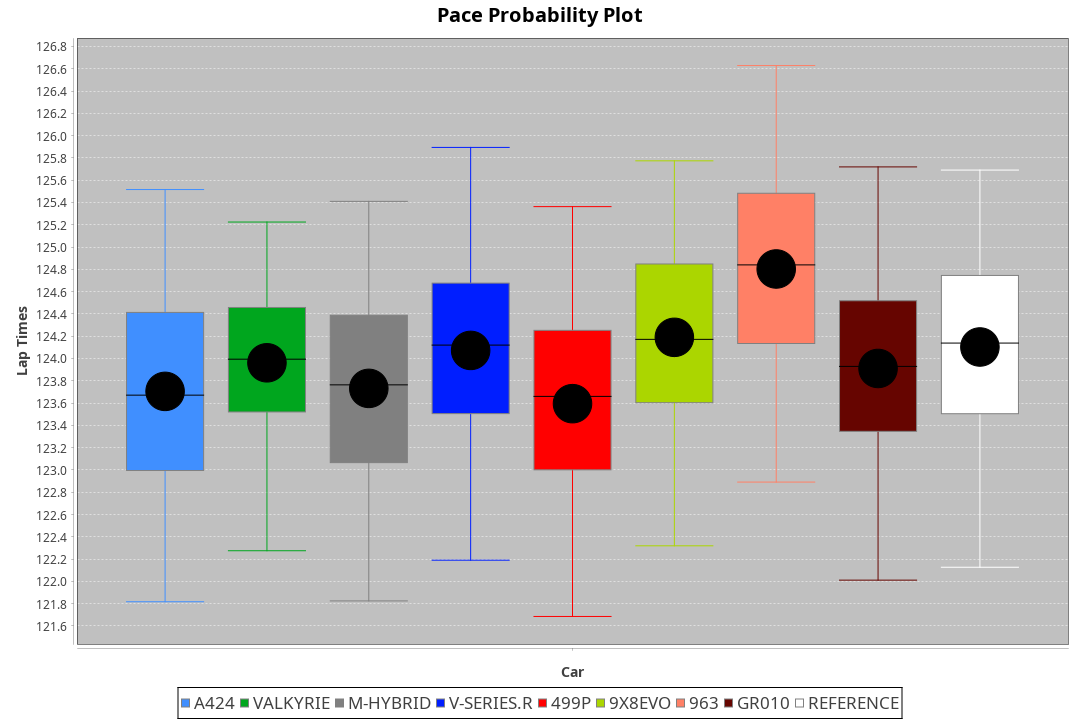
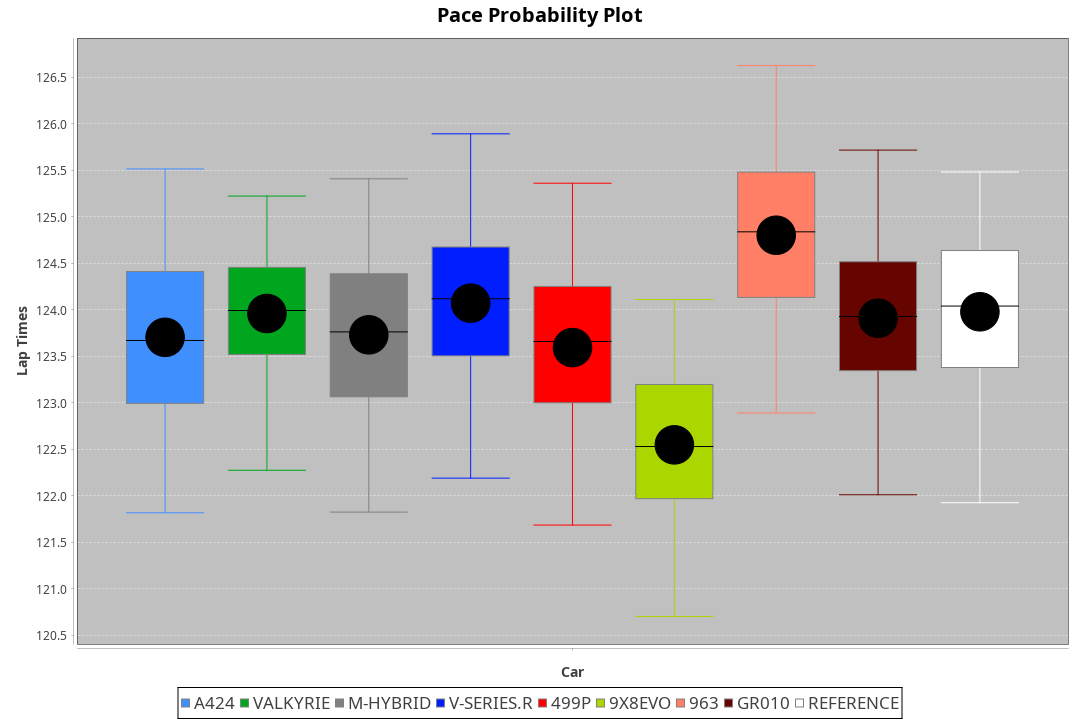
Updated spa with correct peugeot bop

diff --git a/BOP/WECTEC/SPA/PREDEFINED/OFFICIAL_BOP.md b/BOP/WECTEC/SPA/PREDEFINED/OFFICIAL_BOP.md
@@ -4,13 +4,13 @@
 | Aston Martin     | Valkyrie       | 1035kg | 520.0kw | -2.70%  | 906MJ   |    -    |
 | Cadillac         | V-Series.R     | 1042kg | 501.0kw | 3.80%   | 905MJ   |    -    |
 | Ferrari          | 499P           | 1057kg | 489.0kw | 3.70%   | 893MJ   | 190kph  |
-| Peugeot          | 9X8            | 1030kg | 520.0kw | -3.70%  | 902MJ   | 190kph  |
+| Peugeot          | 9X8Evo         | 1030kg | 520.0kw | -3.70%  | 909MJ   | 190kph  |
 | Porsche          | 963            | 1055kg | 494.0kw | 3.40%   | 901MJ   |    -    |
 | Toyota           | GR010          | 1069kg | 480.0kw | 8.30%   | 902MJ   | 190kph  |
-| Peugeot          | 9X8Evo         | 1065kg | 508.0kw |    -    | 910MJ   | 190kph  |
 | BMW              | M-Hybrid       | 1038kg | 510.0kw |    -    | 907MJ   |    -    |
 | Lamborghini      | SC63           | 1035kg | 514.0kw |    -    | 908MJ   |    -    |
 | Isotta Fraschini | Tipo6C         | 1059kg | 520.0kw |    -    | 917MJ   | 190kph  |
+| Peugeot          | 9X8            | 1042kg | 516.0kw |    -    | 908MJ   | 150kph  |
 | Glickenhaus      | 007            | 1030kg | 520.0kw |    -    | 913MJ   |    -    |
 | Vanwall          | Vanderwell 680 | 1030kg | 512.0kw |    -    | 901MJ   |    -    |
 | Alpine           | A480           | 952kg  | 410.0kw |    -    | 797MJ   |    -    |
@@ -20,69 +20,69 @@
 ![STRAIGHTLINEPERFORMANCECHART](./IMG/OFFICIAL_sp.png)
 ![TYREPERFORMANCECHART](./IMG/OFFICIAL_tw.png)
 
-### BoP Accuracy: 69.35%; Overall BoP Grade: D1
+### BoP Accuracy: 65.97%; Overall BoP Grade: D1
 | Manufacturer     | Car            | Type  | RP      | QP      | Weight | Power¹  | Threshhold | PINC    | Power²   | E/Stint | AVG Vmax  | FDS     | RDLC | L/Stint | BOP-Grade | Model Accuracy | Model Points | Match%  | SimDiff |
 |:-|:-|:-|:-|:-|:-|:-|:-|:-|:-|:-|:-|:-|:-|:-|:-|:-|:-|:-|:-|
-| Alpine           | A424           | LMDH  | 2:03.67 | 2:01.26 | 1043kg | 520.0kw | 250.0kph   | -4.40%  | 497.10kw |  910MJ  | 294.66kph |    -    | 1.03 | 25      | -B2       | 96.10%         | 2390         | 80.25%  | #       |
-| Alpine           | A480           | LMP1  | 2:05.23 | 2:04.10 |  952kg | 410.0kw | 0.0kph     |    -    | 410.00kw |  797MJ  | 290.31kph |    -    | 0.98 | 23      | +D1       | 95.62%         | 1701         | 68.36%  | +0.48   |
-| Aston Martin     | Valkyrie       | LMHNH | 2:03.95 | 2:00.95 | 1035kg | 520.0kw | 250.0kph   | -2.70%  | 506.00kw |  906MJ  | 296.18kph |    -    | 1.04 | 25      | +C2       | 100.00%        | 466          | 73.33%  | #       |
-| BMW              | M-Hybrid       | LMDH  | 2:03.68 | 2:00.96 | 1038kg | 510.0kw | 210.0kph   |    -    | 510.00kw |  907MJ  | 298.25kph |    -    | 1.04 | 25      | -C1       | 100.00%        | 3339         | 76.59%  | #       |
-| Cadillac         | V-Series.R     | LMDH  | 2:04.04 | 2:01.48 | 1042kg | 501.0kw | 250.0kph   | 3.80%   | 520.00kw |  905MJ  | 300.57kph |    -    | 1.03 | 24      | ~A1       | 99.56%         | 5841         | 95.43%  | #       |
-| Ferrari          | 499P           | LMHHU | 2:03.54 | 2:00.77 | 1057kg | 489.0kw | 250.0kph   | 3.70%   | 507.10kw |  893MJ  | 297.13kph | 190kph  | 1.05 | 24      | -C2       | 99.57%         | 7417         | 72.65%  | #       |
-| Glickenhaus      | 007            | LMHNH | 2:04.13 | 2:02.74 | 1030kg | 520.0kw | 0.0kph     |    -    | 520.00kw |  913MJ  | 304.95kph |    -    | 0.97 | 25      | ~A1       | 93.90%         | 2170         | 100.00% | +2.89   |
-| Isotta Fraschini | Tipo6C         | LMHHU | 2:05.00 | 2:04.62 | 1059kg | 520.0kw | 210.0kph   |    -    | 520.00kw |  917MJ  | 300.02kph | 190kph  | 1.06 | 24      | +Ω1       | 100.00%        | 132          | 47.55%  | +3.77   |
-| Lamborghini      | SC63           | LMDH  | 2:04.40 | 2:03.01 | 1035kg | 514.0kw | 210.0kph   |    -    | 514.00kw |  908MJ  | 295.84kph |    -    | 1.07 | 25      | +A2       | 100.00%        | 784          | 94.28%  | +3.52   |
-| Peugeot          | 9X8            | LMHHE | 2:04.44 | 2:02.25 | 1030kg | 520.0kw | 250.0kph   | -3.70%  | 500.80kw |  902MJ  | 295.19kph | 190kph  | 1.05 | 24      | +B1       | 99.96%         | 4579         | 89.51%  | +2.53   |
-| Peugeot          | 9X8Evo         | LMHHU | 2:04.18 | 2:01.67 | 1065kg | 508.0kw | 210.0kph   |    -    | 508.00kw |  910MJ  | 304.32kph | 190kph  | 0.99 | 24      | +B1       | 100.00%        | 1891         | 87.50%  | #       |
-| Porsche          | 963            | LMDH  | 2:04.76 | 2:01.83 | 1055kg | 494.0kw | 250.0kph   | 3.40%   | 510.80kw |  901MJ  | 295.83kph |    -    | 1.02 | 24      | ~A1       | 98.39%         | 16118        | 95.65%  | #       |
-| Toyota           | GR010          | LMHHU | 2:03.86 | 2:01.22 | 1069kg | 480.0kw | 250.0kph   | 8.30%   | 519.80kw |  902MJ  | 296.37kph | 190kph  | 1.04 | 24      | -B1       | 99.90%         | 5196         | 87.52%  | #       |
-| Toyota           | GR010OLD       | LMHHE | 2:01.23 | 2:00.08 | 1040kg | 520.0kw | 0.0kph     |    -    | 520.00kw |  964MJ  | 309.07kph | 150kph  | 1.06 | 24      | -Ω2       | 97.31%         | 905          | -29.09% | +2.98   |
-| Vanwall          | Vanderwell 680 | LMHNH | 2:06.75 | 2:03.93 | 1030kg | 512.0kw | 0.0kph     |    -    | 512.00kw |  901MJ  | 297.94kph |    -    | 1.02 | 25      | +Ω1       | 98.91%         | 543          | 0.75%   | +1.87   |
+| Alpine           | A424           | LMDH  | 2:03.67 | 2:01.26 | 1043kg | 520.0kw | 250.0kph   | -4.40%  | 497.10kw |  910MJ  | 294.66kph |    -    | 1.03 | 25      | -B1       | 96.10%         | 2390         | 86.02%  | #       |
+| Alpine           | A480           | LMP1  | 2:05.23 | 2:04.10 |  952kg | 410.0kw | 0.0kph     |    -    | 410.00kw |  797MJ  | 290.31kph |    -    | 0.98 | 23      | +D2       | 95.62%         | 1701         | 62.63%  | +0.48   |
+| Aston Martin     | Valkyrie       | LMHNH | 2:03.95 | 2:00.95 | 1035kg | 520.0kw | 250.0kph   | -2.70%  | 506.00kw |  906MJ  | 296.18kph |    -    | 1.04 | 25      | +C2       | 100.00%        | 466          | 73.39%  | #       |
+| BMW              | M-Hybrid       | LMDH  | 2:03.68 | 2:00.96 | 1038kg | 510.0kw | 210.0kph   |    -    | 510.00kw |  907MJ  | 298.25kph |    -    | 1.04 | 25      | -B2       | 100.00%        | 3339         | 82.24%  | #       |
+| Cadillac         | V-Series.R     | LMDH  | 2:04.04 | 2:01.48 | 1042kg | 501.0kw | 250.0kph   | 3.80%   | 520.00kw |  905MJ  | 300.57kph |    -    | 1.03 | 24      | ~A1       | 99.56%         | 5841         | 100.00% | #       |
+| Ferrari          | 499P           | LMHHU | 2:03.54 | 2:00.77 | 1057kg | 489.0kw | 250.0kph   | 3.70%   | 507.10kw |  893MJ  | 297.13kph | 190kph  | 1.05 | 24      | -C1       | 99.57%         | 7417         | 78.31%  | #       |
+| Glickenhaus      | 007            | LMHNH | 2:04.13 | 2:02.74 | 1030kg | 520.0kw | 0.0kph     |    -    | 520.00kw |  913MJ  | 304.95kph |    -    | 0.97 | 25      | ~A1       | 93.90%         | 2170         | 96.20%  | +2.89   |
+| Isotta Fraschini | Tipo6C         | LMHHU | 2:05.00 | 2:04.62 | 1059kg | 520.0kw | 210.0kph   |    -    | 520.00kw |  917MJ  | 300.02kph | 190kph  | 1.06 | 24      | +Ω1       | 100.00%        | 132          | 41.92%  | +3.77   |
+| Lamborghini      | SC63           | LMDH  | 2:04.40 | 2:03.01 | 1035kg | 514.0kw | 210.0kph   |    -    | 514.00kw |  908MJ  | 295.84kph |    -    | 1.07 | 25      | +B1       | 100.00%        | 784          | 88.69%  | +3.52   |
+| Peugeot          | 9X8Evo         | LMHHU | 2:02.54 | 2:00.11 | 1030kg | 520.0kw | 250.0kph   | -3.70%  | 500.80kw |  909MJ  | 307.58kph | 190kph  | 1.03 | 24      | -Ω1       | 100.00%        | 1891         | 28.86%  | #       |
+| Peugeot          | 9X8            | LMHHE | 2:04.16 | 2:01.98 | 1042kg | 516.0kw | 0.0kph     |    -    | 516.00kw |  908MJ  | 296.05kph | 150kph  | 1.04 | 24      | ~A1       | 99.96%         | 4579         | 96.43%  | +2.53   |
+| Porsche          | 963            | LMDH  | 2:04.76 | 2:01.83 | 1055kg | 494.0kw | 250.0kph   | 3.40%   | 510.80kw |  901MJ  | 295.83kph |    -    | 1.02 | 24      | +A2       | 98.39%         | 16118        | 90.02%  | #       |
+| Toyota           | GR010          | LMHHU | 2:03.86 | 2:01.22 | 1069kg | 480.0kw | 250.0kph   | 8.30%   | 519.80kw |  902MJ  | 296.37kph | 190kph  | 1.04 | 24      | -A2       | 99.90%         | 5196         | 93.19%  | #       |
+| Toyota           | GR010OLD       | LMHHE | 2:01.23 | 2:00.08 | 1040kg | 520.0kw | 0.0kph     |    -    | 520.00kw |  964MJ  | 309.07kph | 150kph  | 1.06 | 24      | -Ω2       | 97.31%         | 905          | -23.46% | +2.98   |
+| Vanwall          | Vanderwell 680 | LMHNH | 2:06.75 | 2:03.93 | 1030kg | 512.0kw | 0.0kph     |    -    | 512.00kw |  901MJ  | 297.94kph |    -    | 1.02 | 25      | +Ω2       | 98.91%         | 543          | -4.95%  | +1.87   |
 
 ## Power below Threshhold
-| N/Nmax    | A424    | VALKYRIE | M-HYBRID | V-SERIES.R | 499P    | 007     | TIPO6C  | SC63    | 9X8     | 9X8EVO  | 963     | GR010   | GR010OLD | VANDERWELL 680 |      | RPM      | A480       |
+| N/Nmax    | A424    | VALKYRIE | M-HYBRID | V-SERIES.R | 499P    | 007     | TIPO6C  | SC63    | 9X8EVO  | 9X8     | 963     | GR010   | GR010OLD | VANDERWELL 680 |      | RPM      | A480       |
 |:-|:-|:-|:-|:-|:-|:-|:-|:-|:-|:-|:-|:-|:-|:-|:-|:-|:-|
-|  0.550    |  256    |  256     |  251     |  247       |  241    |  256    |  256    |  253    |  256    |  250    |  243    |  236    |  256     |  252           |      |   --     |   -        |
-|  0.575    |  279    |  279     |  274     |  270       |  263    |  279    |  279    |  276    |  279    |  273    |  266    |  258    |  279     |  275           |      |   --     |   -        |
-|  0.600    |  300    |  300     |  295     |  290       |  282    |  300    |  300    |  297    |  300    |  293    |  285    |  277    |  300     |  296           |      |   --     |   -        |
-|  0.625    |  322    |  322     |  316     |  310       |  302    |  322    |  322    |  318    |  322    |  314    |  305    |  297    |  322     |  317           |      |   --     |   -        |
-|  0.650    |  343    |  343     |  337     |  331       |  323    |  343    |  343    |  339    |  343    |  335    |  326    |  317    |  343     |  338           |      |   --     |   -        |
-|  0.675    |  365    |  365     |  358     |  352       |  343    |  365    |  365    |  361    |  365    |  357    |  347    |  337    |  365     |  359           |      |   --     |   -        |
-|  0.700    |  387    |  387     |  380     |  373       |  364    |  387    |  387    |  383    |  387    |  378    |  368    |  358    |  387     |  381           |      |   --     |   -        |
-|  0.725    |  409    |  409     |  401     |  394       |  385    |  409    |  409    |  404    |  409    |  399    |  389    |  378    |  409     |  403           |      |   --     |   -        |
-|  0.750    |  430    |  430     |  422     |  414       |  404    |  430    |  430    |  425    |  430    |  420    |  408    |  397    |  430     |  423           |      |   --     |   -        |
-|  0.775    |  449    |  449     |  441     |  433       |  423    |  449    |  449    |  444    |  449    |  439    |  427    |  415    |  449     |  442           |      |  5000    |  -3213569  |
-|  0.800    |  467    |  467     |  458     |  450       |  439    |  467    |  467    |  462    |  467    |  456    |  444    |  431    |  467     |  460           |      |  5500    |  -3499979  |
-|  0.825    |  482    |  482     |  473     |  465       |  454    |  482    |  482    |  477    |  482    |  471    |  458    |  445    |  482     |  475           |      |  5999    |  -3800400  |
-|  0.850    |  494    |  494     |  485     |  476       |  465    |  494    |  494    |  488    |  494    |  483    |  469    |  456    |  494     |  486           |      |  6499    |  -4114832  |
-|  0.875    |  505    |  505     |  495     |  486       |  475    |  505    |  505    |  499    |  505    |  493    |  479    |  466    |  505     |  497           |      |  7000    |  -4443276  |
-|  0.900    |  512    |  512     |  502     |  493       |  481    |  512    |  512    |  506    |  512    |  500    |  486    |  472    |  512     |  504           |      |  7500    |  -4785730  |
-|  0.925    |  517    |  517     |  507     |  498       |  486    |  517    |  517    |  511    |  517    |  505    |  491    |  477    |  517     |  509           |      |  8000    |  407       |
-| **0.950** | **520** | **520**  | **510**  | **501**    | **489** | **520** | **520** | **514** | **520** | **508** | **494** | **480** | **520**  | **512**        | **** | **8499** | **410**    |
-|  0.975    |  518    |  518     |  508     |  499       |  487    |  518    |  518    |  512    |  518    |  506    |  492    |  478    |  518     |  510           |      |  9000    |  205       |
-|  1.000    |  514    |  514     |  505     |  496       |  484    |  514    |  514    |  508    |  514    |  503    |  489    |  475    |  514     |  506           |      |   --     |   -        |
-|  1.025    |  444    |  444     |  436     |  428       |  418    |  444    |  444    |  439    |  444    |  434    |  422    |  410    |  444     |  437           |      |   --     |   -        |
+|  0.550    |  256    |  256     |  251     |  247       |  241    |  256    |  256    |  253    |  256    |  254    |  243    |  236    |  256     |  252           |      |   --     |   -        |
+|  0.575    |  279    |  279     |  274     |  270       |  263    |  279    |  279    |  276    |  279    |  277    |  266    |  258    |  279     |  275           |      |   --     |   -        |
+|  0.600    |  300    |  300     |  295     |  290       |  282    |  300    |  300    |  297    |  300    |  298    |  285    |  277    |  300     |  296           |      |   --     |   -        |
+|  0.625    |  322    |  322     |  316     |  310       |  302    |  322    |  322    |  318    |  322    |  319    |  305    |  297    |  322     |  317           |      |   --     |   -        |
+|  0.650    |  343    |  343     |  337     |  331       |  323    |  343    |  343    |  339    |  343    |  340    |  326    |  317    |  343     |  338           |      |   --     |   -        |
+|  0.675    |  365    |  365     |  358     |  352       |  343    |  365    |  365    |  361    |  365    |  362    |  347    |  337    |  365     |  359           |      |   --     |   -        |
+|  0.700    |  387    |  387     |  380     |  373       |  364    |  387    |  387    |  383    |  387    |  384    |  368    |  358    |  387     |  381           |      |   --     |   -        |
+|  0.725    |  409    |  409     |  401     |  394       |  385    |  409    |  409    |  404    |  409    |  406    |  389    |  378    |  409     |  403           |      |   --     |   -        |
+|  0.750    |  430    |  430     |  422     |  414       |  404    |  430    |  430    |  425    |  430    |  427    |  408    |  397    |  430     |  423           |      |   --     |   -        |
+|  0.775    |  449    |  449     |  441     |  433       |  423    |  449    |  449    |  444    |  449    |  446    |  427    |  415    |  449     |  442           |      |  5000    |  -3213569  |
+|  0.800    |  467    |  467     |  458     |  450       |  439    |  467    |  467    |  462    |  467    |  463    |  444    |  431    |  467     |  460           |      |  5500    |  -3499979  |
+|  0.825    |  482    |  482     |  473     |  465       |  454    |  482    |  482    |  477    |  482    |  478    |  458    |  445    |  482     |  475           |      |  5999    |  -3800400  |
+|  0.850    |  494    |  494     |  485     |  476       |  465    |  494    |  494    |  488    |  494    |  490    |  469    |  456    |  494     |  486           |      |  6499    |  -4114832  |
+|  0.875    |  505    |  505     |  495     |  486       |  475    |  505    |  505    |  499    |  505    |  501    |  479    |  466    |  505     |  497           |      |  7000    |  -4443276  |
+|  0.900    |  512    |  512     |  502     |  493       |  481    |  512    |  512    |  506    |  512    |  508    |  486    |  472    |  512     |  504           |      |  7500    |  -4785730  |
+|  0.925    |  517    |  517     |  507     |  498       |  486    |  517    |  517    |  511    |  517    |  513    |  491    |  477    |  517     |  509           |      |  8000    |  407       |
+| **0.950** | **520** | **520**  | **510**  | **501**    | **489** | **520** | **520** | **514** | **520** | **516** | **494** | **480** | **520**  | **512**        | **** | **8499** | **410**    |
+|  0.975    |  518    |  518     |  508     |  499       |  487    |  518    |  518    |  512    |  518    |  514    |  492    |  478    |  518     |  510           |      |  9000    |  205       |
+|  1.000    |  514    |  514     |  505     |  496       |  484    |  514    |  514    |  508    |  514    |  510    |  489    |  475    |  514     |  506           |      |   --     |   -        |
+|  1.025    |  444    |  444     |  436     |  428       |  418    |  444    |  444    |  439    |  444    |  441    |  422    |  410    |  444     |  437           |      |   --     |   -        |
 
 ## Power above Threshhold
-| N/Nmax    | A424       | VALKYRIE   | M-HYBRID | V-SERIES.R | 499P       | 007     | TIPO6C  | SC63    | 9X8        | 9X8EVO  | 963        | GR010      | GR010OLD | VANDERWELL 680 |      | RPM      | A480       |
+| N/Nmax    | A424       | VALKYRIE   | M-HYBRID | V-SERIES.R | 499P       | 007     | TIPO6C  | SC63    | 9X8EVO     | 9X8     | 963        | GR010      | GR010OLD | VANDERWELL 680 |      | RPM      | A480       |
 |:-|:-|:-|:-|:-|:-|:-|:-|:-|:-|:-|:-|:-|:-|:-|:-|:-|:-|
-|  0.550    |  245.06    |  249.47    |  251     |  256.02    |  250.05    |  256    |  256    |  253    |  246.37    |  250    |  251.39    |  256.41    |  256     |  252           |      |   --     |   -        |
-|  0.575    |  267.06    |  272.52    |  274     |  279.02    |  273.05    |  279    |  279    |  276    |  269.41    |  273    |  274.43    |  279.45    |  279     |  275           |      |   --     |   -        |
-|  0.600    |  287.07    |  292.56    |  295     |  300.02    |  293.05    |  300    |  300    |  297    |  289.44    |  293    |  295.46    |  299.48    |  300     |  296           |      |   --     |   -        |
-|  0.625    |  307.07    |  312.59    |  316     |  322.02    |  314.06    |  322    |  322    |  318    |  309.47    |  314    |  316.49    |  321.52    |  322     |  317           |      |   --     |   -        |
-|  0.650    |  328.08    |  333.63    |  337     |  343.03    |  335.06    |  343    |  343    |  339    |  330.50    |  335    |  337.53    |  342.55    |  343     |  338           |      |   --     |   -        |
-|  0.675    |  349.08    |  355.67    |  358     |  365.03    |  356.07    |  365    |  365    |  361    |  351.53    |  357    |  358.56    |  364.59    |  365     |  359           |      |   --     |   -        |
-|  0.700    |  370.09    |  376.71    |  380     |  387.03    |  377.07    |  387    |  387    |  383    |  372.57    |  378    |  380.59    |  386.62    |  387     |  381           |      |   --     |   -        |
-|  0.725    |  391.09    |  397.75    |  401     |  409.03    |  399.07    |  409    |  409    |  404    |  393.60    |  399    |  401.63    |  408.66    |  409     |  403           |      |   --     |   -        |
-|  0.750    |  411.10    |  417.79    |  422     |  430.03    |  419.08    |  430    |  430    |  425    |  413.63    |  420    |  422.66    |  429.69    |  430     |  423           |      |   --     |   -        |
-|  0.775    |  429.10    |  436.83    |  441     |  449.03    |  438.08    |  449    |  449    |  444    |  432.66    |  439    |  441.69    |  448.73    |  449     |  442           |      |  5000    |  -3213569  |
-|  0.800    |  446.11    |  454.86    |  458     |  467.03    |  455.08    |  467    |  467    |  462    |  449.68    |  456    |  458.71    |  466.75    |  467     |  460           |      |  5500    |  -3499979  |
-|  0.825    |  461.11    |  469.89    |  473     |  482.04    |  470.09    |  482    |  482    |  477    |  464.71    |  471    |  473.74    |  481.78    |  482     |  475           |      |  5999    |  -3800400  |
-|  0.850    |  472.11    |  480.91    |  485     |  494.04    |  482.09    |  494    |  494    |  488    |  475.72    |  483    |  485.76    |  493.80    |  494     |  486           |      |  6499    |  -4114832  |
-|  0.875    |  482.12    |  490.93    |  495     |  505.04    |  492.09    |  505    |  505    |  499    |  485.74    |  493    |  495.77    |  504.82    |  505     |  497           |      |  7000    |  -4443276  |
-|  0.900    |  489.12    |  497.94    |  502     |  512.04    |  499.09    |  512    |  512    |  506    |  492.75    |  500    |  502.78    |  511.83    |  512     |  504           |      |  7500    |  -4785730  |
-|  0.925    |  494.12    |  502.95    |  507     |  517.04    |  504.09    |  517    |  517    |  511    |  497.76    |  505    |  507.79    |  516.84    |  517     |  509           |      |  8000    |  407       |
-| **0.950** | **497.12** | **505.96** | **510**  | **520.04** | **507.09** | **520** | **520** | **514** | **500.76** | **508** | **510.80** | **519.84** | **520**  | **512**        | **** | **8499** | **410**    |
-|  0.975    |  495.12    |  503.96    |  508     |  518.04    |  505.09    |  518    |  518    |  512    |  498.76    |  506    |  508.79    |  517.84    |  518     |  510           |      |  9000    |  205       |
-|  1.000    |  492.12    |  500.95    |  505     |  514.04    |  502.09    |  514    |  514    |  508    |  495.75    |  503    |  505.79    |  513.83    |  514     |  506           |      |   --     |   -        |
-|  1.025    |  424.10    |  431.82    |  436     |  444.03    |  433.08    |  444    |  444    |  439    |  427.65    |  434    |  436.68    |  443.72    |  444     |  437           |      |   --     |   -        |
+|  0.550    |  245.06    |  249.47    |  251     |  256.02    |  250.05    |  256    |  256    |  253    |  246.37    |  254    |  251.39    |  256.41    |  256     |  252           |      |   --     |   -        |
+|  0.575    |  267.06    |  272.52    |  274     |  279.02    |  273.05    |  279    |  279    |  276    |  269.41    |  277    |  274.43    |  279.45    |  279     |  275           |      |   --     |   -        |
+|  0.600    |  287.07    |  292.56    |  295     |  300.02    |  293.05    |  300    |  300    |  297    |  289.44    |  298    |  295.46    |  299.48    |  300     |  296           |      |   --     |   -        |
+|  0.625    |  307.07    |  312.59    |  316     |  322.02    |  314.06    |  322    |  322    |  318    |  309.47    |  319    |  316.49    |  321.52    |  322     |  317           |      |   --     |   -        |
+|  0.650    |  328.08    |  333.63    |  337     |  343.03    |  335.06    |  343    |  343    |  339    |  330.50    |  340    |  337.53    |  342.55    |  343     |  338           |      |   --     |   -        |
+|  0.675    |  349.08    |  355.67    |  358     |  365.03    |  356.07    |  365    |  365    |  361    |  351.53    |  362    |  358.56    |  364.59    |  365     |  359           |      |   --     |   -        |
+|  0.700    |  370.09    |  376.71    |  380     |  387.03    |  377.07    |  387    |  387    |  383    |  372.57    |  384    |  380.59    |  386.62    |  387     |  381           |      |   --     |   -        |
+|  0.725    |  391.09    |  397.75    |  401     |  409.03    |  399.07    |  409    |  409    |  404    |  393.60    |  406    |  401.63    |  408.66    |  409     |  403           |      |   --     |   -        |
+|  0.750    |  411.10    |  417.79    |  422     |  430.03    |  419.08    |  430    |  430    |  425    |  413.63    |  427    |  422.66    |  429.69    |  430     |  423           |      |   --     |   -        |
+|  0.775    |  429.10    |  436.83    |  441     |  449.03    |  438.08    |  449    |  449    |  444    |  432.66    |  446    |  441.69    |  448.73    |  449     |  442           |      |  5000    |  -3213569  |
+|  0.800    |  446.11    |  454.86    |  458     |  467.03    |  455.08    |  467    |  467    |  462    |  449.68    |  463    |  458.71    |  466.75    |  467     |  460           |      |  5500    |  -3499979  |
+|  0.825    |  461.11    |  469.89    |  473     |  482.04    |  470.09    |  482    |  482    |  477    |  464.71    |  478    |  473.74    |  481.78    |  482     |  475           |      |  5999    |  -3800400  |
+|  0.850    |  472.11    |  480.91    |  485     |  494.04    |  482.09    |  494    |  494    |  488    |  475.72    |  490    |  485.76    |  493.80    |  494     |  486           |      |  6499    |  -4114832  |
+|  0.875    |  482.12    |  490.93    |  495     |  505.04    |  492.09    |  505    |  505    |  499    |  485.74    |  501    |  495.77    |  504.82    |  505     |  497           |      |  7000    |  -4443276  |
+|  0.900    |  489.12    |  497.94    |  502     |  512.04    |  499.09    |  512    |  512    |  506    |  492.75    |  508    |  502.78    |  511.83    |  512     |  504           |      |  7500    |  -4785730  |
+|  0.925    |  494.12    |  502.95    |  507     |  517.04    |  504.09    |  517    |  517    |  511    |  497.76    |  513    |  507.79    |  516.84    |  517     |  509           |      |  8000    |  407       |
+| **0.950** | **497.12** | **505.96** | **510**  | **520.04** | **507.09** | **520** | **520** | **514** | **500.76** | **516** | **510.80** | **519.84** | **520**  | **512**        | **** | **8499** | **410**    |
+|  0.975    |  495.12    |  503.96    |  508     |  518.04    |  505.09    |  518    |  518    |  512    |  498.76    |  514    |  508.79    |  517.84    |  518     |  510           |      |  9000    |  205       |
+|  1.000    |  492.12    |  500.95    |  505     |  514.04    |  502.09    |  514    |  514    |  508    |  495.75    |  510    |  505.79    |  513.83    |  514     |  506           |      |   --     |   -        |
+|  1.025    |  424.10    |  431.82    |  436     |  444.03    |  433.08    |  444    |  444    |  439    |  427.65    |  441    |  436.68    |  443.72    |  444     |  437           |      |   --     |   -        |

diff --git a/BOP/WEC2025/SPA/PREDEFINED/OFFICIAL_BOP.md b/BOP/WEC2025/SPA/PREDEFINED/OFFICIAL_BOP.md
@@ -4,71 +4,71 @@
 | Aston Martin | Valkyrie   | 1035kg | 520.0kw | -2.70%  | 906MJ   |    -    |
 | Cadillac     | V-Series.R | 1042kg | 501.0kw | 3.80%   | 905MJ   |    -    |
 | Ferrari      | 499P       | 1057kg | 489.0kw | 3.70%   | 893MJ   | 190kph  |
+| Peugeot      | 9X8Evo     | 1030kg | 520.0kw | -3.70%  | 909MJ   | 190kph  |
 | Porsche      | 963        | 1055kg | 494.0kw | 3.40%   | 901MJ   |    -    |
 | Toyota       | GR010      | 1069kg | 480.0kw | 8.30%   | 902MJ   | 190kph  |
-| Peugeot      | 9X8Evo     | 1065kg | 508.0kw |    -    | 910MJ   | 190kph  |
 | BMW          | M-Hybrid   | 1038kg | 510.0kw |    -    | 907MJ   |    -    |
 
 ![PACECHART](./IMG/OFFICIAL.png)
 ![STRAIGHTLINEPERFORMANCECHART](./IMG/OFFICIAL_sp.png)
 ![TYREPERFORMANCECHART](./IMG/OFFICIAL_tw.png)
 
-### BoP Accuracy: 86.96%; Overall BoP Grade: B1
+### BoP Accuracy: 82.91%; Overall BoP Grade: B2
 | Manufacturer | Car        | Type  | RP      | QP      | Weight | Power¹  | Threshhold | PINC    | Power²   | E/Stint | AVG Vmax  | FDS     | RDLC | L/Stint | BOP-Grade | Model Accuracy | Model Points | Match% | SimDiff |
 |:-|:-|:-|:-|:-|:-|:-|:-|:-|:-|:-|:-|:-|:-|:-|:-|:-|:-|:-|:-|
-| Alpine       | A424       | LMDH  | 2:03.67 | 2:01.26 | 1043kg | 520.0kw | 250.0kph   | -4.40%  | 497.10kw |  910MJ  | 294.66kph |    -    | 1.03 | 25      | -A2       | 96.10%         | 2390         | 91.53% | +0.62   |
-| Aston Martin | Valkyrie   | LMHNH | 2:03.95 | 2:00.95 | 1035kg | 520.0kw | 250.0kph   | -2.70%  | 506.00kw |  906MJ  | 296.18kph |    -    | 1.04 | 25      | +C2       | 100.00%        | 466          | 73.43% | #       |
-| BMW          | M-Hybrid   | LMDH  | 2:03.68 | 2:00.96 | 1038kg | 510.0kw | 210.0kph   |    -    | 510.00kw |  907MJ  | 298.25kph |    -    | 1.04 | 25      | -B1       | 100.00%        | 3339         | 87.64% | +0.58   |
-| Cadillac     | V-Series.R | LMDH  | 2:04.04 | 2:01.48 | 1042kg | 501.0kw | 250.0kph   | 3.80%   | 520.00kw |  905MJ  | 300.57kph |    -    | 1.03 | 24      | ~A1       | 99.56%         | 5841         | 95.13% | +0.98   |
-| Ferrari      | 499P       | LMHHU | 2:03.54 | 2:00.77 | 1057kg | 489.0kw | 250.0kph   | 3.70%   | 507.10kw |  893MJ  | 297.13kph | 190kph  | 1.05 | 24      | -B2       | 99.57%         | 7417         | 83.72% | +1.15   |
-| Peugeot      | 9X8Evo     | LMHHU | 2:04.18 | 2:01.67 | 1065kg | 508.0kw | 210.0kph   |    -    | 508.00kw |  910MJ  | 304.32kph | 190kph  | 0.99 | 24      | +B2       | 100.00%        | 1891         | 81.00% | +0.70   |
-| Porsche      | 963        | LMDH  | 2:04.76 | 2:01.83 | 1055kg | 494.0kw | 250.0kph   | 3.40%   | 510.80kw |  901MJ  | 295.83kph |    -    | 1.02 | 24      | +B2       | 98.39%         | 16118        | 84.61% | -0.06   |
-| Toyota       | GR010      | LMHHU | 2:03.86 | 2:01.22 | 1069kg | 480.0kw | 250.0kph   | 8.30%   | 519.80kw |  902MJ  | 296.37kph | 190kph  | 1.04 | 24      | ~A1       | 99.90%         | 5196         | 98.59% | +1.56   |
+| Alpine       | A424       | LMDH  | 2:03.67 | 2:01.26 | 1043kg | 520.0kw | 250.0kph   | -4.40%  | 497.10kw |  910MJ  | 294.66kph |    -    | 1.03 | 25      | ~A1       | 96.10%         | 2390         | 99.60% | +0.62   |
+| Aston Martin | Valkyrie   | LMHNH | 2:03.95 | 2:00.95 | 1035kg | 520.0kw | 250.0kph   | -2.70%  | 506.00kw |  906MJ  | 296.18kph |    -    | 1.04 | 25      | +C2       | 100.00%        | 466          | 73.54% | #       |
+| BMW          | M-Hybrid   | LMDH  | 2:03.68 | 2:00.96 | 1038kg | 510.0kw | 210.0kph   |    -    | 510.00kw |  907MJ  | 298.25kph |    -    | 1.04 | 25      | ~A1       | 100.00%        | 3339         | 96.69% | +0.58   |
+| Cadillac     | V-Series.R | LMDH  | 2:04.04 | 2:01.48 | 1042kg | 501.0kw | 250.0kph   | 3.80%   | 520.00kw |  905MJ  | 300.57kph |    -    | 1.03 | 24      | +B1       | 99.56%         | 5841         | 86.18% | +0.98   |
+| Ferrari      | 499P       | LMHHU | 2:03.54 | 2:00.77 | 1057kg | 489.0kw | 250.0kph   | 3.70%   | 507.10kw |  893MJ  | 297.13kph | 190kph  | 1.05 | 24      | -A2       | 99.57%         | 7417         | 92.78% | +1.15   |
+| Peugeot      | 9X8Evo     | LMHHU | 2:02.54 | 2:00.11 | 1030kg | 520.0kw | 250.0kph   | -3.70%  | 500.80kw |  909MJ  | 307.58kph | 190kph  | 1.03 | 24      | -Ω1       | 100.00%        | 1891         | 43.20% | +0.70   |
+| Porsche      | 963        | LMDH  | 2:04.76 | 2:01.83 | 1055kg | 494.0kw | 250.0kph   | 3.40%   | 510.80kw |  901MJ  | 295.83kph |    -    | 1.02 | 24      | +C1       | 98.39%         | 16118        | 75.60% | -0.06   |
+| Toyota       | GR010      | LMHHU | 2:03.86 | 2:01.22 | 1069kg | 480.0kw | 250.0kph   | 8.30%   | 519.80kw |  902MJ  | 296.37kph | 190kph  | 1.04 | 24      | ~A1       | 99.90%         | 5196         | 95.69% | +1.56   |
 
 ## Power below Threshhold
 | N/Nmax    | A424    | VALKYRIE | M-HYBRID | V-SERIES.R | 499P    | 9X8EVO  | 963     | GR010   |
 |:-|:-|:-|:-|:-|:-|:-|:-|:-|
-|  0.550    |  256    |  256     |  251     |  247       |  241    |  250    |  243    |  236    |
-|  0.575    |  279    |  279     |  274     |  270       |  263    |  273    |  266    |  258    |
-|  0.600    |  300    |  300     |  295     |  290       |  282    |  293    |  285    |  277    |
-|  0.625    |  322    |  322     |  316     |  310       |  302    |  314    |  305    |  297    |
-|  0.650    |  343    |  343     |  337     |  331       |  323    |  335    |  326    |  317    |
-|  0.675    |  365    |  365     |  358     |  352       |  343    |  357    |  347    |  337    |
-|  0.700    |  387    |  387     |  380     |  373       |  364    |  378    |  368    |  358    |
-|  0.725    |  409    |  409     |  401     |  394       |  385    |  399    |  389    |  378    |
-|  0.750    |  430    |  430     |  422     |  414       |  404    |  420    |  408    |  397    |
-|  0.775    |  449    |  449     |  441     |  433       |  423    |  439    |  427    |  415    |
-|  0.800    |  467    |  467     |  458     |  450       |  439    |  456    |  444    |  431    |
-|  0.825    |  482    |  482     |  473     |  465       |  454    |  471    |  458    |  445    |
-|  0.850    |  494    |  494     |  485     |  476       |  465    |  483    |  469    |  456    |
-|  0.875    |  505    |  505     |  495     |  486       |  475    |  493    |  479    |  466    |
-|  0.900    |  512    |  512     |  502     |  493       |  481    |  500    |  486    |  472    |
-|  0.925    |  517    |  517     |  507     |  498       |  486    |  505    |  491    |  477    |
-| **0.950** | **520** | **520**  | **510**  | **501**    | **489** | **508** | **494** | **480** |
-|  0.975    |  518    |  518     |  508     |  499       |  487    |  506    |  492    |  478    |
-|  1.000    |  514    |  514     |  505     |  496       |  484    |  503    |  489    |  475    |
-|  1.025    |  444    |  444     |  436     |  428       |  418    |  434    |  422    |  410    |
+|  0.550    |  256    |  256     |  251     |  247       |  241    |  256    |  243    |  236    |
+|  0.575    |  279    |  279     |  274     |  270       |  263    |  279    |  266    |  258    |
+|  0.600    |  300    |  300     |  295     |  290       |  282    |  300    |  285    |  277    |
+|  0.625    |  322    |  322     |  316     |  310       |  302    |  322    |  305    |  297    |
+|  0.650    |  343    |  343     |  337     |  331       |  323    |  343    |  326    |  317    |
+|  0.675    |  365    |  365     |  358     |  352       |  343    |  365    |  347    |  337    |
+|  0.700    |  387    |  387     |  380     |  373       |  364    |  387    |  368    |  358    |
+|  0.725    |  409    |  409     |  401     |  394       |  385    |  409    |  389    |  378    |
+|  0.750    |  430    |  430     |  422     |  414       |  404    |  430    |  408    |  397    |
+|  0.775    |  449    |  449     |  441     |  433       |  423    |  449    |  427    |  415    |
+|  0.800    |  467    |  467     |  458     |  450       |  439    |  467    |  444    |  431    |
+|  0.825    |  482    |  482     |  473     |  465       |  454    |  482    |  458    |  445    |
+|  0.850    |  494    |  494     |  485     |  476       |  465    |  494    |  469    |  456    |
+|  0.875    |  505    |  505     |  495     |  486       |  475    |  505    |  479    |  466    |
+|  0.900    |  512    |  512     |  502     |  493       |  481    |  512    |  486    |  472    |
+|  0.925    |  517    |  517     |  507     |  498       |  486    |  517    |  491    |  477    |
+| **0.950** | **520** | **520**  | **510**  | **501**    | **489** | **520** | **494** | **480** |
+|  0.975    |  518    |  518     |  508     |  499       |  487    |  518    |  492    |  478    |
+|  1.000    |  514    |  514     |  505     |  496       |  484    |  514    |  489    |  475    |
+|  1.025    |  444    |  444     |  436     |  428       |  418    |  444    |  422    |  410    |
 
 ## Power above Threshhold
-| N/Nmax    | A424       | VALKYRIE   | M-HYBRID | V-SERIES.R | 499P       | 9X8EVO  | 963        | GR010      |
+| N/Nmax    | A424       | VALKYRIE   | M-HYBRID | V-SERIES.R | 499P       | 9X8EVO     | 963        | GR010      |
 |:-|:-|:-|:-|:-|:-|:-|:-|:-|
-|  0.550    |  245.06    |  249.47    |  251     |  256.02    |  250.05    |  250    |  251.39    |  256.41    |
-|  0.575    |  267.06    |  272.52    |  274     |  279.02    |  273.05    |  273    |  274.43    |  279.45    |
-|  0.600    |  287.07    |  292.56    |  295     |  300.02    |  293.05    |  293    |  295.46    |  299.48    |
-|  0.625    |  307.07    |  312.59    |  316     |  322.02    |  314.06    |  314    |  316.49    |  321.52    |
-|  0.650    |  328.08    |  333.63    |  337     |  343.03    |  335.06    |  335    |  337.53    |  342.55    |
-|  0.675    |  349.08    |  355.67    |  358     |  365.03    |  356.07    |  357    |  358.56    |  364.59    |
-|  0.700    |  370.09    |  376.71    |  380     |  387.03    |  377.07    |  378    |  380.59    |  386.62    |
-|  0.725    |  391.09    |  397.75    |  401     |  409.03    |  399.07    |  399    |  401.63    |  408.66    |
-|  0.750    |  411.10    |  417.79    |  422     |  430.03    |  419.08    |  420    |  422.66    |  429.69    |
-|  0.775    |  429.10    |  436.83    |  441     |  449.03    |  438.08    |  439    |  441.69    |  448.73    |
-|  0.800    |  446.11    |  454.86    |  458     |  467.03    |  455.08    |  456    |  458.71    |  466.75    |
-|  0.825    |  461.11    |  469.89    |  473     |  482.04    |  470.09    |  471    |  473.74    |  481.78    |
-|  0.850    |  472.11    |  480.91    |  485     |  494.04    |  482.09    |  483    |  485.76    |  493.80    |
-|  0.875    |  482.12    |  490.93    |  495     |  505.04    |  492.09    |  493    |  495.77    |  504.82    |
-|  0.900    |  489.12    |  497.94    |  502     |  512.04    |  499.09    |  500    |  502.78    |  511.83    |
-|  0.925    |  494.12    |  502.95    |  507     |  517.04    |  504.09    |  505    |  507.79    |  516.84    |
-| **0.950** | **497.12** | **505.96** | **510**  | **520.04** | **507.09** | **508** | **510.80** | **519.84** |
-|  0.975    |  495.12    |  503.96    |  508     |  518.04    |  505.09    |  506    |  508.79    |  517.84    |
-|  1.000    |  492.12    |  500.95    |  505     |  514.04    |  502.09    |  503    |  505.79    |  513.83    |
-|  1.025    |  424.10    |  431.82    |  436     |  444.03    |  433.08    |  434    |  436.68    |  443.72    |
+|  0.550    |  245.06    |  249.47    |  251     |  256.02    |  250.05    |  246.37    |  251.39    |  256.41    |
+|  0.575    |  267.06    |  272.52    |  274     |  279.02    |  273.05    |  269.41    |  274.43    |  279.45    |
+|  0.600    |  287.07    |  292.56    |  295     |  300.02    |  293.05    |  289.44    |  295.46    |  299.48    |
+|  0.625    |  307.07    |  312.59    |  316     |  322.02    |  314.06    |  309.47    |  316.49    |  321.52    |
+|  0.650    |  328.08    |  333.63    |  337     |  343.03    |  335.06    |  330.50    |  337.53    |  342.55    |
+|  0.675    |  349.08    |  355.67    |  358     |  365.03    |  356.07    |  351.53    |  358.56    |  364.59    |
+|  0.700    |  370.09    |  376.71    |  380     |  387.03    |  377.07    |  372.57    |  380.59    |  386.62    |
+|  0.725    |  391.09    |  397.75    |  401     |  409.03    |  399.07    |  393.60    |  401.63    |  408.66    |
+|  0.750    |  411.10    |  417.79    |  422     |  430.03    |  419.08    |  413.63    |  422.66    |  429.69    |
+|  0.775    |  429.10    |  436.83    |  441     |  449.03    |  438.08    |  432.66    |  441.69    |  448.73    |
+|  0.800    |  446.11    |  454.86    |  458     |  467.03    |  455.08    |  449.68    |  458.71    |  466.75    |
+|  0.825    |  461.11    |  469.89    |  473     |  482.04    |  470.09    |  464.71    |  473.74    |  481.78    |
+|  0.850    |  472.11    |  480.91    |  485     |  494.04    |  482.09    |  475.72    |  485.76    |  493.80    |
+|  0.875    |  482.12    |  490.93    |  495     |  505.04    |  492.09    |  485.74    |  495.77    |  504.82    |
+|  0.900    |  489.12    |  497.94    |  502     |  512.04    |  499.09    |  492.75    |  502.78    |  511.83    |
+|  0.925    |  494.12    |  502.95    |  507     |  517.04    |  504.09    |  497.76    |  507.79    |  516.84    |
+| **0.950** | **497.12** | **505.96** | **510**  | **520.04** | **507.09** | **500.76** | **510.80** | **519.84** |
+|  0.975    |  495.12    |  503.96    |  508     |  518.04    |  505.09    |  498.76    |  508.79    |  517.84    |
+|  1.000    |  492.12    |  500.95    |  505     |  514.04    |  502.09    |  495.75    |  505.79    |  513.83    |
+|  1.025    |  424.10    |  431.82    |  436     |  444.03    |  433.08    |  427.65    |  436.68    |  443.72    |
